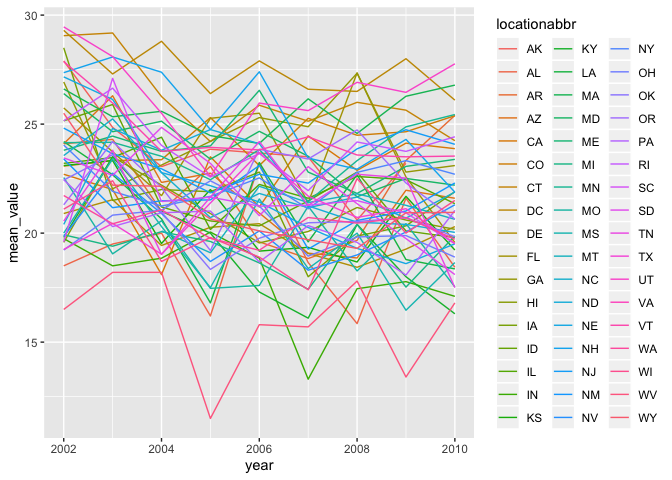
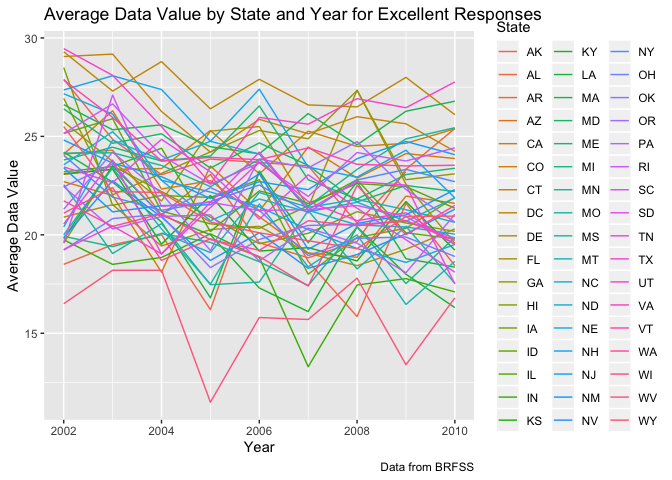
done with graphs/plots through problem 3. need to review and finesse before submitting.

diff --git a/HW3.md b/HW3.md
@@ -25,7 +25,7 @@ library(p8105.datasets)
 data("instacart")
 ```
 
-## Description of Instacart Data Set:
+### Description of Instacart Data Set:
 
 This data set contains 1384617 observations and 15 variables describing
 order information like time and day order was placed, products ordered,
@@ -37,15 +37,13 @@ days after their last order.
 In total, there are 134 aisles and the most items are ordered from the
 fresh vegetables.
 
-## Plot of Items Ordered
+### Plot of Items Ordered
 
 ``` r
 plot_aisles = instacart %>% 
   count(aisle, name = "n_aisle") %>% 
   filter(n_aisle > 10000) %>% 
   arrange((aisle)) %>% 
-  mutate(
-    aisle = str_to_title(aisle)) %>% 
   ggplot(aes(x = aisle, y = n_aisle)) +
   geom_bar(stat = "identity") + 
   geom_text(aes(label = n_aisle), hjust = -0.05, size = 1.5) +
@@ -62,7 +60,7 @@ plot_aisles + coord_flip()
 
 ![](HW3_files/figure-gfm/unnamed-chunk-2-1.png)<!-- -->
 
-## Most Popular Items in Each Row
+### Most Popular Items in Each Aisle Row
 
 ``` r
 top3_products = instacart %>% 
@@ -74,6 +72,7 @@ top3_products = instacart %>%
   group_by(aisle) %>% 
   count(product_name, name = "n_product") %>% 
   filter(min_rank(desc(n_product)) < 4) %>% 
+  mutate(product_name = str_to_lower(product_name)) %>% 
   rename(
     "Aisle Name" = aisle,
     "Product Name" = product_name, 
@@ -86,17 +85,17 @@ top3_products
 
 | Aisle Name                 | Product Name                                  | Count |
 | :------------------------- | :-------------------------------------------- | ----: |
-| baking ingredients         | Cane Sugar                                    |   336 |
-| baking ingredients         | Light Brown Sugar                             |   499 |
-| baking ingredients         | Pure Baking Soda                              |   387 |
-| dog food care              | Organix Chicken & Brown Rice Recipe           |    28 |
-| dog food care              | Small Dog Biscuits                            |    26 |
-| dog food care              | Snack Sticks Chicken & Rice Recipe Dog Treats |    30 |
-| packaged vegetables fruits | Organic Baby Spinach                          |  9784 |
-| packaged vegetables fruits | Organic Blueberries                           |  4966 |
-| packaged vegetables fruits | Organic Raspberries                           |  5546 |
+| baking ingredients         | cane sugar                                    |   336 |
+| baking ingredients         | light brown sugar                             |   499 |
+| baking ingredients         | pure baking soda                              |   387 |
+| dog food care              | organix chicken & brown rice recipe           |    28 |
+| dog food care              | small dog biscuits                            |    26 |
+| dog food care              | snack sticks chicken & rice recipe dog treats |    30 |
+| packaged vegetables fruits | organic baby spinach                          |  9784 |
+| packaged vegetables fruits | organic blueberries                           |  4966 |
+| packaged vegetables fruits | organic raspberries                           |  5546 |
 
-## Pink Ladies and Coffee Ice Cream
+### Mean Time of Day Pink Lady Apples and Coffee Ice Cream Are Ordered by Day
 
 ``` r
 apples_and_cream = instacart %>% 
@@ -134,6 +133,8 @@ apples_and_cream
 
 # Problem 2
 
+### Data Cleaning
+
 ``` r
 library(p8105.datasets)
 data("brfss_smart2010")
@@ -144,7 +145,7 @@ brfss_smart2010 = brfss_smart2010 %>%
   mutate(response = forcats::fct_relevel(response, c("Poor", "Fair","Good", "Very good", "Excellent")))
 ```
 
-## 2002 states
+### States with 7 or More Observed Locations (2002 and 2010)
 
 ``` r
 states_2002 = brfss_smart2010 %>% 
@@ -170,7 +171,10 @@ states_2002
 | NJ    |                   8 |
 | PA    |                  10 |
 
-## 2010 states
+  - Connecticut, Florida, Massachusetts, North Carolina, New Jersey and
+    Pennsylvania had 7 or more locations in 2002.
+
+<!-- end list -->
 
 ``` r
 states_2010 = brfss_smart2010 %>% 
@@ -204,7 +208,11 @@ states_2010
 | TX    |                  16 |
 | WA    |                  10 |
 
-## Excellent Response
+  - California, Colorado, Florida, Massachusetts, Maryland, North
+    Carolina, Nebraska, New Jersey, New York, Ohio, Pennsylvania, South
+    Carolina, Texas, and Washington had 7 or more locations in 2010.
+
+### Spaghetti Plot: Average Data Value Over Time by State
 
 ``` r
 brfss_excellent = brfss_smart2010  %>% 
@@ -215,14 +223,20 @@ brfss_excellent = brfss_smart2010  %>%
   select(year, locationabbr, mean_value) %>% 
   distinct() %>% 
   ggplot(aes(x = year, y = mean_value)) +
-  geom_line(aes(group = locationabbr, color = locationabbr))
+  geom_line(aes(group = locationabbr, color = locationabbr)) +
+  labs(
+    title = "Average Data Value by State and Year for Excellent Responses",
+    x = "Year",
+    y = "Average Data Value",
+    caption = "Data from BRFSS") +
+  scale_color_hue(name = "State")
 
 brfss_excellent
 ```
 
 ![](HW3_files/figure-gfm/unnamed-chunk-8-1.png)<!-- -->
 
-## Distribution of Data Values in NY
+### 2 Panel Plot for Distribution of Data Values in NY by 2006 and 2010
 
 ``` r
 brfss_ny_state = brfss_smart2010 %>% 
@@ -230,7 +244,14 @@ brfss_ny_state = brfss_smart2010 %>%
   ggplot(aes(x = locationdesc, y = data_value, fill = response)) + 
   geom_bar(stat = "identity", position = "dodge") +
   facet_grid(~year) +
-  theme(axis.text.x = element_text(angle = 90, hjust = 1))
+  theme(axis.text.x = element_text(angle = 90, hjust = 1)) + 
+  labs(
+    title = "Distribution of Data Values in NY",
+    x = "NY County",
+    y = "Data Value",
+    caption = "Data from BRFSS") +
+  scale_color_hue(name = "Response Category")
+  
 
 brfss_ny_state
 ```
@@ -239,6 +260,8 @@ brfss_ny_state
 
 # Problem 3
 
+### Data Tidying
+
 ``` r
 accel_data = read_csv("./data/accel_data.csv") %>% 
   janitor::clean_names() %>% 
@@ -246,9 +269,15 @@ accel_data = read_csv("./data/accel_data.csv") %>%
     activity_1:activity_1440, 
     names_to = "activity_minute", 
     values_to = "activity_count") %>% 
-  mutate(day_type = case_when(
+  separate(
+    activity_minute, 
+    into = c("activity", "activity_minute"), sep = 9) %>% 
+  mutate(
+    day_type = case_when(
           (day == "Saturday" | day == "Sunday") ~ "Weekend", 
-          TRUE ~ "Weekday"))
+          TRUE ~ "Weekday"), 
+    activity_minute = as.integer(activity_minute)) %>% 
+  select(-activity)
 ```
 
     ## Parsed with column specification:
@@ -258,3 +287,90 @@ accel_data = read_csv("./data/accel_data.csv") %>%
     ## )
 
     ## See spec(...) for full column specifications.
+
+### Describe Data Set
+
+This data set contains 50400 observations and 6 variables describing
+five weeks of accelerometer data collected on a 63 year-old male with
+BMI 25, who was diagnosed with congestive heart failure (CHF). Variables
+include information on acitivity count `(activity_count)` for every
+minute `(activity_minute)` in a 24 hour period by day `(day_id)` for 5
+weeks.
+
+### Total Activity by Day
+
+``` r
+total_activity = accel_data %>% 
+  group_by(day_id,) %>% 
+  summarize("Total Activity" = sum(activity_count)) %>% 
+  ungroup(day_id) %>% 
+  rename("Day" = day_id) %>% 
+  knitr::kable()
+
+total_activity
+```
+
+| Day | Total Activity |
+| --: | -------------: |
+|   1 |      480542.62 |
+|   2 |       78828.07 |
+|   3 |      376254.00 |
+|   4 |      631105.00 |
+|   5 |      355923.64 |
+|   6 |      307094.24 |
+|   7 |      340115.01 |
+|   8 |      568839.00 |
+|   9 |      295431.00 |
+|  10 |      607175.00 |
+|  11 |      422018.00 |
+|  12 |      474048.00 |
+|  13 |      423245.00 |
+|  14 |      440962.00 |
+|  15 |      467420.00 |
+|  16 |      685910.00 |
+|  17 |      382928.00 |
+|  18 |      467052.00 |
+|  19 |      371230.00 |
+|  20 |      381507.00 |
+|  21 |      468869.00 |
+|  22 |      154049.00 |
+|  23 |      409450.00 |
+|  24 |        1440.00 |
+|  25 |      260617.00 |
+|  26 |      340291.00 |
+|  27 |      319568.00 |
+|  28 |      434460.00 |
+|  29 |      620860.00 |
+|  30 |      389080.00 |
+|  31 |        1440.00 |
+|  32 |      138421.00 |
+|  33 |      549658.00 |
+|  34 |      367824.00 |
+|  35 |      445366.00 |
+
+  - I would argue that there are no apparent trends across the total
+    activity for 35 days.
+
+### Total Activity over the course of a Day
+
+``` r
+activity_plot = accel_data %>% 
+ggplot(aes(x = activity_minute, y = activity_count)) +
+  geom_point(aes(color = day), alpha = 0.5) +
+  geom_smooth(se = FALSE, alpha = 0.5) +
+  labs(
+    title = "Activity Counts for Mintes in 24-hour Period 
+    (starting at midnight)",
+    x = "Minute",
+    y = "Activity Count",
+    caption = "Data from the Advanced Cardiac Care 
+    Center of Columbia University Medical Center"
+  ) +
+  scale_color_hue(name = "Day of Week")
+
+activity_plot
+```
+
+    ## `geom_smooth()` using method = 'gam' and formula 'y ~ s(x, bs = "cs")'
+
+![](HW3_files/figure-gfm/unnamed-chunk-12-1.png)<!-- -->
